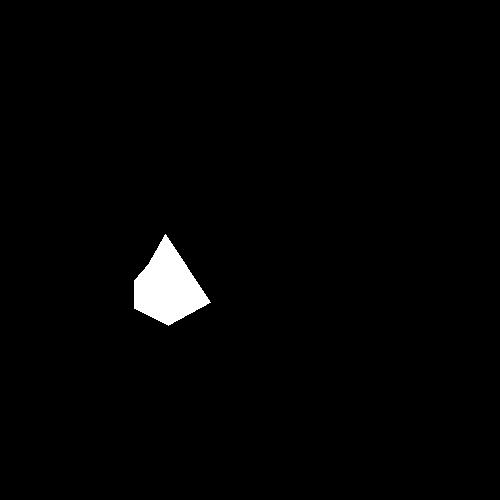
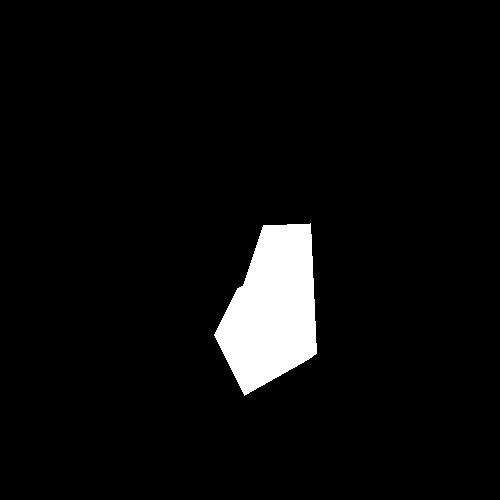
2024-10-25 display polygon image in table

Changed region(s): [[0.42, 0.45, 0.63, 0.81], [0.27, 0.48, 0.42, 0.66]]

diff --git a/polygon_complexity/src/views/Draw.vue b/polygon_complexity/src/views/Draw.vue
@@ -12,7 +12,7 @@
     <button @click="removeLastPoint" :disabled="points.length === 0">Delete!</button>
     <button @click="sendPolygons" :disabled="polygons.length === 0">Send!</button>
 
-    <DataVisualization :data="responseData" />
+    <DataVisualization :data="responseData" :urls="fileUrls"/>
   </div>
 </template>
 
@@ -27,6 +27,7 @@ export default {
       points: [], // 保存多边形点的坐标
       polygons:[],
       responseData: null, // 存储后端返回的数据
+      fileUrls:{},
     };
   },
   components: {
@@ -114,12 +115,47 @@ export default {
         ctx.stroke();
       }
 
-      console.log(this.points);
+      
+      //console.log(this.points);
       this.polygons.push(this.points);
-      console.log(this.polygons);
-      ctx.clearRect(0, 0, canvas.width, canvas.height);
+      //console.log(this.polygons);
+      setTimeout(()=>{
+        ctx.clearRect(0, 0, canvas.width, canvas.height);
+      },500);
+
+
+      //生成多边形图片
+      const tempCanvas = document.createElement('canvas');
+      tempCanvas.width = 500;
+      tempCanvas.height = 500;
+      const tempCtx = tempCanvas.getContext('2d');
+
+      // 填充黑色背景
+      tempCtx.fillStyle = "black";
+      tempCtx.fillRect(0, 0, tempCanvas.width, tempCanvas.height);
+
+      // 绘制白色多边形
+      tempCtx.fillStyle = "white";
+      tempCtx.beginPath();
+
+      tempCtx.moveTo(this.points[0].x,this.points[0].y);
+      //console.log(this.points[0].x,this.points[0].y)
+      for(let i =1; i < this.points.length; i++){
+        tempCtx.lineTo(this.points[i].x,this.points[i].y);
+        //console.log(this.points[i].x,this.points[i].y);
+      }
+
+      //tempCtx.lineTo(this.points[0].x,this.points[0].y);
+      tempCtx.closePath();
+      tempCtx.fill();
+
+      tempCanvas.toBlob((blob) => {
+        // 使用URL.createObjectURL生成图片URL
+        this.fileUrls[`file${this.polygons.length - 1}`] = URL.createObjectURL(blob);
+      }, "image/png"); 
+
       this.points = []
-      console.log(this.points);
+      //console.log(this.points);
     },
 
     async sendPolygons(){
@@ -141,6 +177,7 @@ export default {
 
         // 将转换后的数据赋值给 this.responseData，以便传递给 DataVisualization 组件
         this.responseData = polygonData;
+        console.log(this.fileUrls);
       } catch (error) {
         console.error('Failure:', error);
       }

diff --git a/polygon_complexity/src/components/DataVisualization.vue b/polygon_complexity/src/components/DataVisualization.vue
@@ -6,6 +6,7 @@
         <tr>
           <th>polygon</th>
           <!-- 动态生成表头，展示所有方法 -->
+          <th>image</th>
           <th v-for="(method, index) in methods" :key="index" @click="sortTable(method)">
             {{ method }}
           </th>
@@ -16,6 +17,9 @@
           <!-- 显示文件序号 -->
           <td>{{ polygon.fileName }}</td>
           <!-- 动态生成表格内容，展示每个方法的复杂度值 -->
+          <td>
+            <img :src="polygon.url" alt="Polygon Image" width="100" />
+          </td>
           <td v-for="(method, i) in methods" :key="i">
             {{ getTotalComplexity(polygon.data, method) }}
           </td>
@@ -29,7 +33,8 @@
 export default {
   name: 'DataVisualization',
   props: {
-    data: Array // 传递从后端获取的多边形数据和复杂度信息
+    data: Array, // 传递从后端获取的多边形数据和复杂度信息
+    urls:Object
   },
   data() {
     return {
@@ -58,11 +63,13 @@ export default {
       return []; // 如果 this.data 无效，返回空数组，避免错误
     }
     
+    //print("url",this.urls);
     // 处理 polygons 的逻辑，类似于之前的代码
     const polygons = this.data.map(item => {
       const fileName = Object.keys(item)[0]; // 提取文件序号（例如 file0, file1）
       const data = item[fileName]; // 提取对应的复杂度数据
-      return { fileName, data };
+      const url = this.urls[fileName];
+      return { fileName, data, url };
     });
 
     if (!this.currentSortMethod) {

diff --git a/polygon_complexity/src/components/SelectImage.vue b/polygon_complexity/src/components/SelectImage.vue
@@ -27,7 +27,8 @@ import axios from 'axios';
       return {
         images: [], 
         selectedImage: null, 
-        selectedImages:[]
+        selectedImages:[],
+        fileUrls:{}
       };
     },
   
@@ -73,22 +74,23 @@ import axios from 'axios';
             const blob = await res.blob();  
             const file = new File([blob], image.name, { type: blob.type });
 
-            
             formData.append(`file${index}`, file);
+            this.fileUrls[`file${index}`]= URL.createObjectURL(file);
           }
           
+          //console.log(this.fileUrls);
           const response = await axios.post('http://localhost:5000/api/complexity', formData, {
           headers: {'Content-Type': 'multipart/form-data'}});
 
           const rawData = response.data.data;
-          console.log(rawData);
+          //console.log(rawData);
   
           // exchange to array
           const polygonData = Object.keys(rawData).map(fileName => {
           return { [fileName]: rawData[fileName] };
           });
 
-          this.$emit('upload-success', polygonData);
+          this.$emit('upload-success', polygonData,this.fileUrls);
         } catch (error) {
           console.error('Failure', error);
         }

diff --git a/polygon_complexity/src/views/Upload.vue b/polygon_complexity/src/views/Upload.vue
@@ -8,7 +8,7 @@
       <li v-for="(fileName, index) in fileNames" :key="index">{{ fileName }}</li>
     </ul>
 
-    <DataVisualization :data="responseData" />
+    <DataVisualization :data="responseData" :urls="fileUrls" />
   </div>
 </template>
 
@@ -23,6 +23,7 @@ export default {
       selectedFiles: [], 
       responseData: null, 
       fileNames:[],
+      fileUrls:{}
     };
   },
   components: { 
@@ -49,7 +50,10 @@ export default {
 
        this.selectedFiles.forEach((file, index) => {
         formData.append(`file${index}`, file);  // 用 file0, file1, ... 命名每个文件
+        this.fileUrls[`file${index}`]= URL.createObjectURL(file);
       }); 
+
+      console.log(this.fileUrls)
 
       try {
         const response = await axios.post('http://localhost:5000/api/complexity', formData, {

diff --git a/polygon_complexity/src/views/Select.vue b/polygon_complexity/src/views/Select.vue
@@ -4,7 +4,7 @@
     <h2>Please select a polygon:</h2>.
     <SelectImage @upload-success="handleUploadSuccess" />
 
-    <DataVisualization :data="responseData" />
+    <DataVisualization :data="responseData" :urls="fileUrls"/>
   </div>
 </template>
 
@@ -21,11 +21,14 @@ export default {
   data() {
     return {
       responseData: null, 
+      fileUrls:{}
     };
   },
   methods: {
-    handleUploadSuccess(data) {
+    handleUploadSuccess(data,Urls) {
       this.responseData = data;
+      this.fileUrls = Urls;
+      //console.log(Urls);
     }
   }
 };
